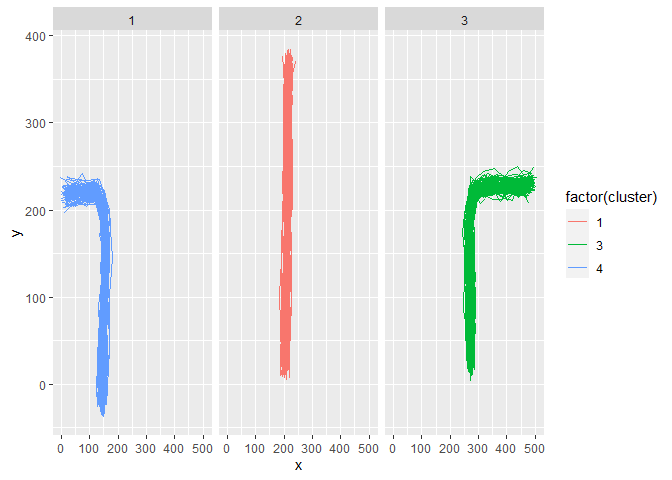
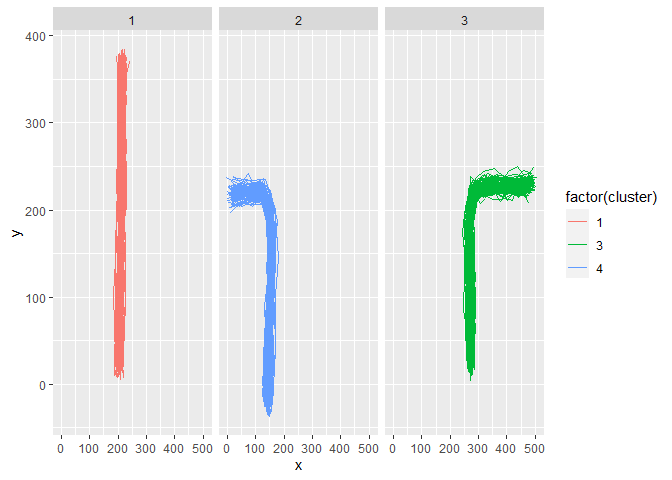
updating README

Changed region(s): [[0.0938, 0.0938, 0.1875, 0.875], [0.3438, 0.0938, 0.4375, 0.875]]

diff --git a/README.md b/README.md
@@ -11,7 +11,7 @@ The goal of RouteIdentification is to clustery trajectory data sets like
 those found in sports analytics tracking data. This work was developed
 as part of the first Big Data Bowl and the methodology is written about
 in
-[JQAS](https://www.degruyter.com/view/journals/jqas/ahead-of-print/article-10.1515-jqas-2019-0047/article-10.1515-jqas-2019-0047.xml). You may alse find the article on [arXiv](https://arxiv.org/abs/1908.02423).
+[JQAS](https://www.degruyter.com/view/j/jqas.ahead-of-print/jqas-2019-0047/jqas-2019-0047.xml?format=INT)
 
 ## Installation
 
@@ -47,7 +47,7 @@ library(RouteIdentification)
 #> Warning: replacing previous import 'magrittr::extract' by 'tidyr::extract' when
 #> loading 'RouteIdentification'
 library(tidyverse)
-#> -- Attaching packages -------------------------------------------------------- tidyverse 1.3.0 --
+#> -- Attaching packages ----- tidyverse 1.3.0 --
 #> v ggplot2 3.3.0     v purrr   0.3.4
 #> v tibble  3.0.1     v dplyr   1.0.0
 #> v tidyr   1.1.0     v stringr 1.4.0
@@ -56,7 +56,7 @@ library(tidyverse)
 #> Warning: package 'tibble' was built under R version 3.6.3
 #> Warning: package 'purrr' was built under R version 3.6.3
 #> Warning: package 'dplyr' was built under R version 3.6.3
-#> -- Conflicts ----------------------------------------------------------- tidyverse_conflicts() --
+#> -- Conflicts -------- tidyverse_conflicts() --
 #> x dplyr::filter() masks stats::filter()
 #> x dplyr::lag()    masks stats::lag()
 
@@ -68,86 +68,20 @@ em_results <- driver_em_nested(nested_trajectory_data, K = 3)
 #> 0 sec elapsed
 #> [1] 1
 #> [1] "e_step time"
-#> 0.9 sec elapsed
+#> 0.43 sec elapsed
 #> [1] -Inf
 #> [1] "m_step time"
-#> 0.13 sec elapsed
+#> 0.05 sec elapsed
 #> [1] 2
 #> [1] "e_step time"
-#> 0.94 sec elapsed
-#> [1] 1392.234
+#> 0.44 sec elapsed
+#> [1] 3391.293
 #> [1] "m_step time"
 #> 0.04 sec elapsed
 #> [1] 3
 #> [1] "e_step time"
-#> 0.89 sec elapsed
-#> [1] 1397.012
-#> [1] "m_step time"
-#> 0.05 sec elapsed
-#> [1] 4
-#> [1] "e_step time"
-#> 0.85 sec elapsed
-#> [1] 1398.501
-#> [1] "m_step time"
-#> 0.06 sec elapsed
-#> [1] 5
-#> [1] "e_step time"
-#> 0.84 sec elapsed
-#> [1] 1398.754
-#> [1] "m_step time"
-#> 0.06 sec elapsed
-#> [1] 6
-#> [1] "e_step time"
-#> 0.89 sec elapsed
-#> [1] 1399.044
-#> [1] "m_step time"
-#> 0.07 sec elapsed
-#> [1] 7
-#> [1] "e_step time"
-#> 0.9 sec elapsed
-#> [1] 1399.155
-#> [1] "m_step time"
-#> 0.05 sec elapsed
-#> [1] 8
-#> [1] "e_step time"
-#> 0.91 sec elapsed
-#> [1] 1399.157
-#> [1] "m_step time"
-#> 0.04 sec elapsed
-#> [1] 9
-#> [1] "e_step time"
-#> 0.85 sec elapsed
-#> [1] 1399.155
-#> [1] "m_step time"
-#> 0.05 sec elapsed
-#> [1] 10
-#> [1] "e_step time"
-#> 0.86 sec elapsed
-#> [1] 1399.154
-#> [1] "m_step time"
-#> 0.08 sec elapsed
-#> [1] 11
-#> [1] "e_step time"
-#> 0.92 sec elapsed
-#> [1] 1399.154
-#> [1] "m_step time"
-#> 0.06 sec elapsed
-#> [1] 12
-#> [1] "e_step time"
-#> 0.92 sec elapsed
-#> [1] 1399.154
-#> [1] "m_step time"
-#> 0.08 sec elapsed
-#> [1] 13
-#> [1] "e_step time"
-#> 0.92 sec elapsed
-#> [1] 1399.154
-#> [1] "m_step time"
-#> 0.07 sec elapsed
-#> [1] 14
-#> [1] "e_step time"
-#> 0.92 sec elapsed
-#> 13.36 sec elapsed
+#> 0.44 sec elapsed
+#> 1.4 sec elapsed
 
 # Grab the cluster means
 cluster_means <- extract_cluster_means(em_results)
@@ -162,13 +96,12 @@ cluster_assignments <- identify_clusters(nested_trajectory_data, em_results)
 # Count cluster assignments
 cluster_assignments %>%
   count(cluster, pred_cluster)
-#> # A tibble: 4 x 3
+#> # A tibble: 3 x 3
 #>   cluster pred_cluster     n
 #>     <dbl>        <dbl> <int>
-#> 1       1            2     6
-#> 2       1            3     5
-#> 3       2            1     6
-#> 4       3            1     3
+#> 1       1            3     5
+#> 2       2            1     8
+#> 3       3            2     7
 
 # Plot clusters assigments by assigned cluster mean
 cluster_assignments %>%
@@ -203,13 +136,12 @@ new_data_fit <- fit_new_data(new_trajectory_data, em_results)
 # Tabulate assignments
 new_data_fit %>%
   count(cluster, cluster_assigned)
-#> # A tibble: 4 x 3
+#> # A tibble: 3 x 3
 #>   cluster cluster_assigned     n
 #>     <dbl>            <dbl> <int>
-#> 1       1                2     7
-#> 2       1                3    27
-#> 3       2                1    48
-#> 4       3                1    38
+#> 1       1                3    48
+#> 2       2                1    41
+#> 3       3                2    31
 ```
 
 ## Now with NFL sample data
@@ -350,20 +282,20 @@ em_results <- driver_em_nested(vehicle_data_subset, K = 3)
 #> 0 sec elapsed
 #> [1] 1
 #> [1] "e_step time"
-#> 3.17 sec elapsed
+#> 1.71 sec elapsed
 #> [1] -Inf
 #> [1] "m_step time"
-#> 0.06 sec elapsed
+#> 0.04 sec elapsed
 #> [1] 2
 #> [1] "e_step time"
-#> 3.05 sec elapsed
+#> 1.72 sec elapsed
 #> [1] -23709.81
 #> [1] "m_step time"
-#> 0.08 sec elapsed
+#> 0.03 sec elapsed
 #> [1] 3
 #> [1] "e_step time"
-#> 2.92 sec elapsed
-#> 9.28 sec elapsed
+#> 1.74 sec elapsed
+#> 5.24 sec elapsed
 
 # Identify cluster assignments
 cluster_assignments <- identify_clusters(vehicle_data_subset, em_results)
@@ -374,9 +306,9 @@ cluster_assignments %>%
 #> # A tibble: 3 x 3
 #>   cluster pred_cluster     n
 #>     <dbl>        <dbl> <int>
-#> 1       1            2   100
+#> 1       1            1   100
 #> 2       3            3   100
-#> 3       4            1   100
+#> 3       4            2   100
 
 # Plot clusters assigments by assigned cluster mean
 cluster_assignments %>%
